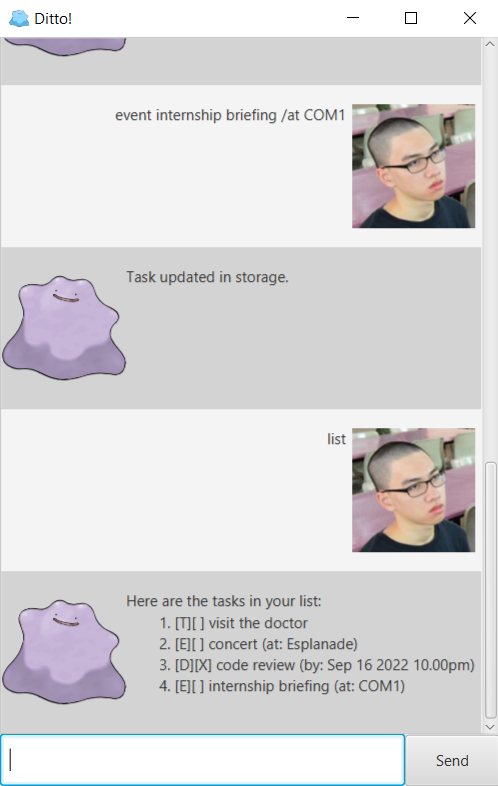
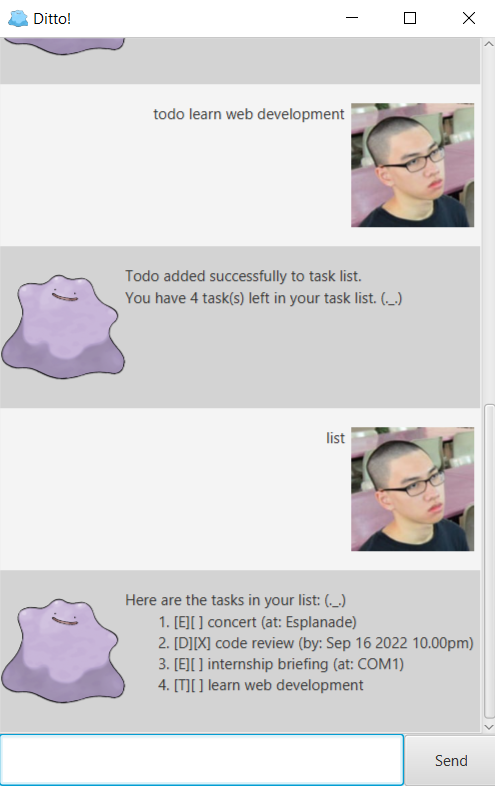
Update assets with new Ui.png

diff --git a/src/main/java/utils/Parser.java b/src/main/java/utils/Parser.java
@@ -151,7 +151,7 @@ public class Parser {
 
         taskList.add(todo, Duke.TaskType.TODO, "");
         storage.save(taskList);
-        return "Todo added successfully to task list."
+        return "Todo added successfully to task list.\n"
                 + "You have " + taskList.getSize() + " task(s) left in your task list. (._.)";
     }
 
@@ -176,7 +176,7 @@ public class Parser {
         }
         taskList.add(deadline, Duke.TaskType.DEADLINE, by);
         storage.save(taskList);
-        return "Deadline added successfully to task list."
+        return "Deadline added successfully to task list.\n"
                 + "You have " + taskList.getSize() + " task(s) left in your task list. (._.)";
     }
 
